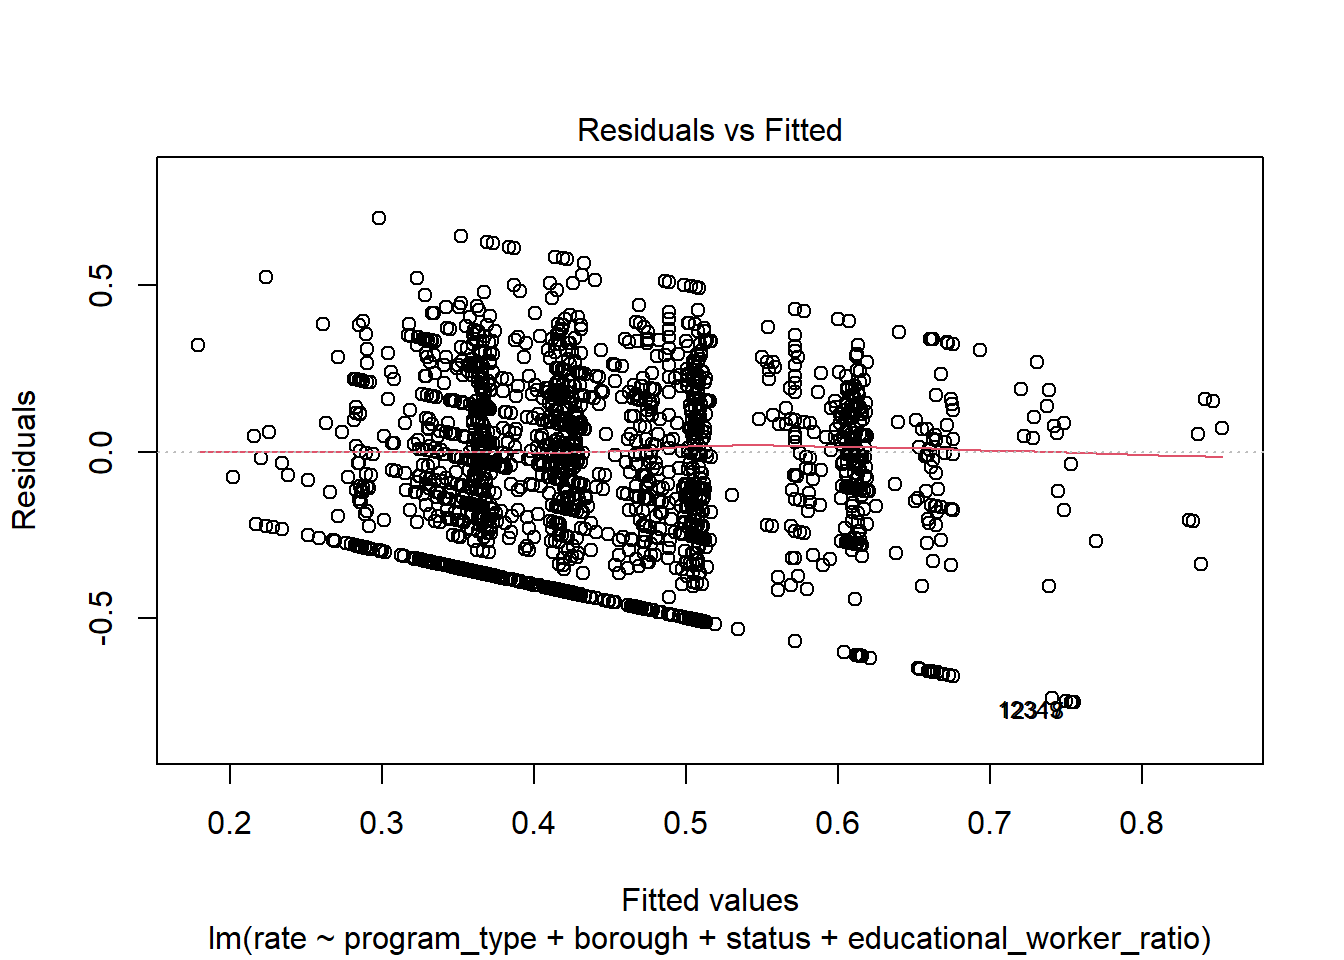
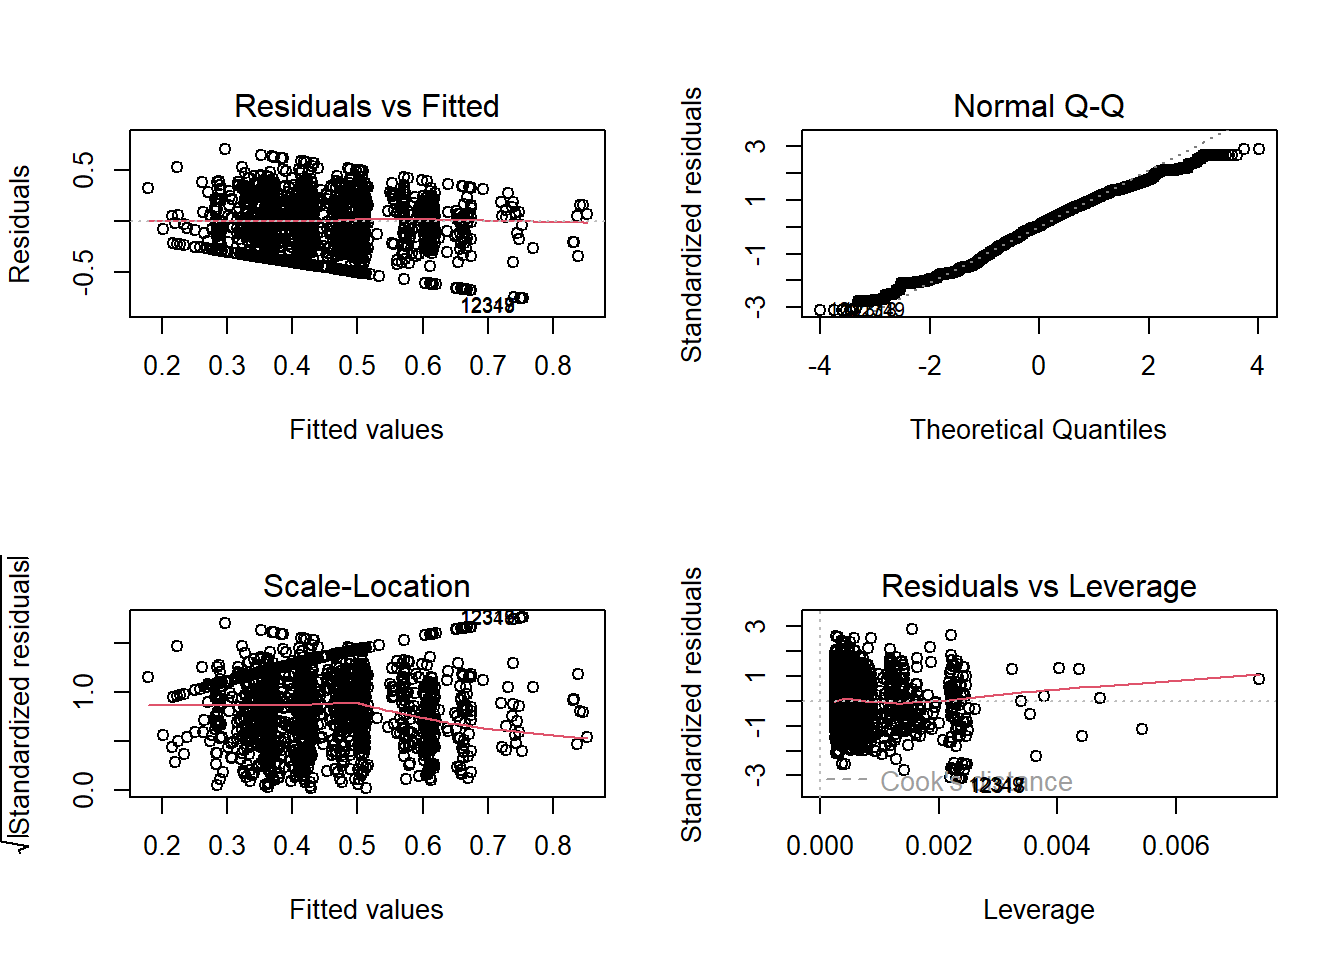
Rearrange plots in linear diagnostics

diff --git a/linear.html b/linear.html
@@ -730,8 +730,9 @@ is outside of the dashed line of Cook’s distance 0.5, suggesting no
 influential observations.</p></li>
 </ol>
 <pre class="r"><code># model diagnostics: Residuals vs Fitted plot, QQ plot, Scale_location, Residuals vs Leverage
+par(mfrow = c(2,2))
 plot(full_lm)</code></pre>
-<p><img src="linear_files/figure-html/unnamed-chunk-4-1.png" width="672" /><img src="linear_files/figure-html/unnamed-chunk-4-2.png" width="672" /><img src="linear_files/figure-html/unnamed-chunk-4-3.png" width="672" /><img src="linear_files/figure-html/unnamed-chunk-4-4.png" width="672" /></p>
+<p><img src="linear_files/figure-html/unnamed-chunk-4-1.png" width="672" /></p>
 <p><br></p>
 </div>
 <div id="multicollinearity" class="section level3">
